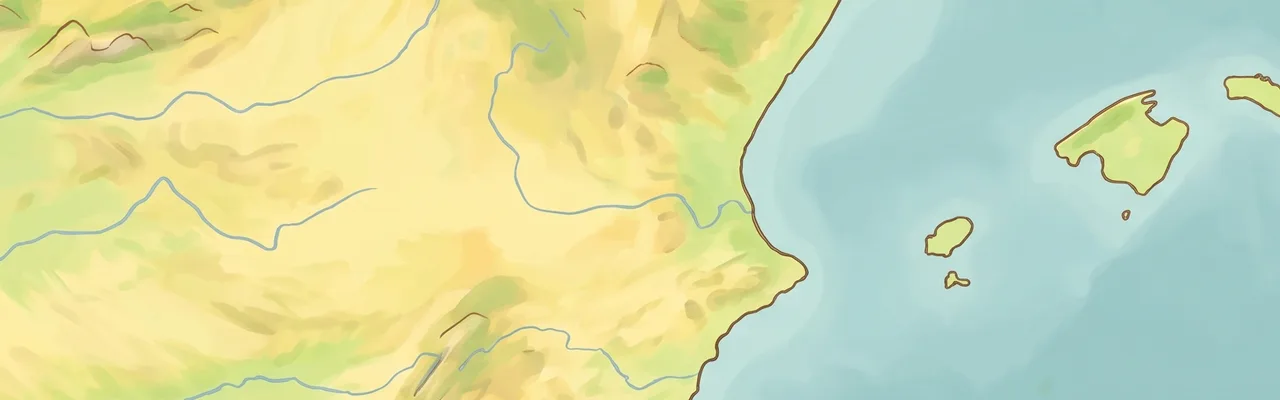
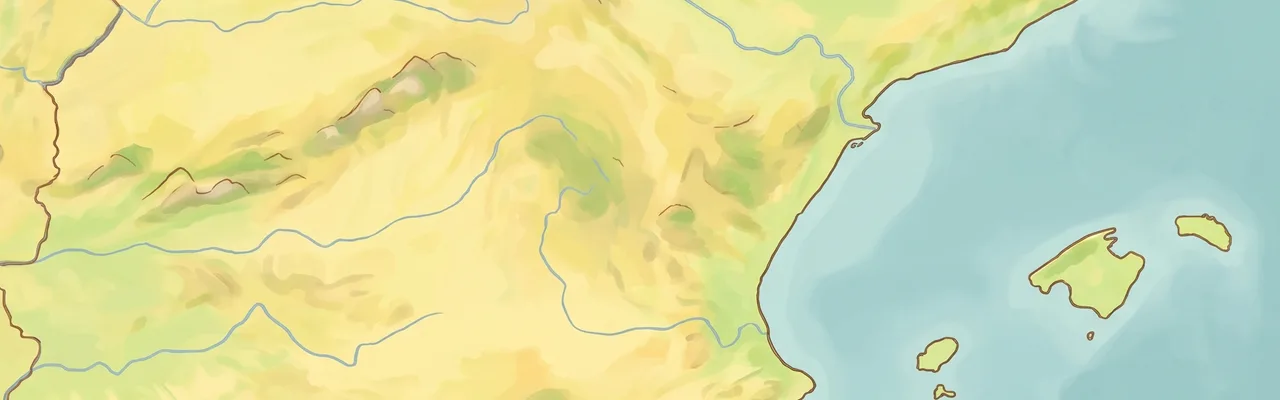
fix(landing): пины на Барселоне/Валенсии/Мадриде по размеченным точкам + подписи (TRIP-445)
Все три карты кропнуты так, что показывают одни и те же города (Барселона,
Валенсия, Мадрид) под своё соотношение слота. Координаты пинов взяты из точек,
размеченных Павлом прямо на картине (детект красных маркеров) — не георефренс,
не «на глаз»: Барселона на побережье, Валенсия на побережье, Мадрид в центре,
ни один пин не в воде. Добавлены подписи городов через i18n (landing.map.bcn/
vlc/mad, en/es/ru) с белым гало SVG-атрибутами (без нового CSS-класса).

Claude-Session: https://claude.ai/code/session_01V8X29ZbLBon8jURVNecf4K

diff --git a/src/pages/Landing/LandingPage.jsx b/src/pages/Landing/LandingPage.jsx
@@ -344,13 +344,13 @@ function Pain() {
                     <div data-step="" style={{ '--s': 0 }}>{/* inline-style-exempt: scrub step index */}
                       <div className="aw-row"><span className="aw-label">{t('landing.aw.mapLbl')}</span><span className="aw-more">{t('landing.aw.open')}</span></div>
                       <div className="aw-map" aria-hidden="true">
-                        {/* §5: карта маршрута — иллюстрация (акварельная Иберия, кроп public/site/map-pain.webp); пины на реальных городах (Валенсия→Аликанте→Мурсия), координаты — георефренс картины по опорным точкам берега (аффин lng/lat→px). */}
+                        {/* §5: карта маршрута — иллюстрация (акварельная Иберия, кроп public/site/map-pain.webp); пины на реальных городах Барселона→Валенсия→Мадрид (координаты по точкам, размеченным на картине). */}
                         <svg viewBox="0 0 608 190" preserveAspectRatio="xMidYMid slice">
                           <image href="/site/map-pain.webp" x="0" y="0" width="608" height="190" preserveAspectRatio="xMidYMid slice" />
-                          <path d="M323 40 L346 116 L314 139" fill="none" stroke="#2173C8" strokeWidth="2.4" strokeDasharray="2 7" strokeLinecap="round" className="aw-route" />
-                          <g className="aw-pin" style={{ '--p': 0 }}><circle cx="323" cy="40" r="11" fill="#fff" stroke="#2173C8" strokeWidth="2.2" /><text className="npin-t" x="323" y="44" fontSize="12">1</text></g>{/* inline-style-exempt: --p pin stagger delay (TRIP-460) */}
-                          <g className="aw-pin" style={{ '--p': 1 }}><circle cx="346" cy="116" r="11" fill="#fff" stroke="#2173C8" strokeWidth="2.2" /><text className="npin-t" x="346" y="120" fontSize="12">2</text></g>{/* inline-style-exempt: --p pin stagger delay */}
-                          <g className="aw-pin" style={{ '--p': 2 }}><circle cx="314" cy="139" r="11" fill="#fff" stroke="#2173C8" strokeWidth="2.2" /><text className="npin-t" x="314" y="143" fontSize="12">3</text></g>{/* inline-style-exempt: --p pin stagger delay */}
+                          <path d="M430 33 L360 157 L178 102" fill="none" stroke="#2173C8" strokeWidth="2.4" strokeDasharray="2 7" strokeLinecap="round" className="aw-route" />
+                          <g className="aw-pin" style={{ '--p': 0 }}><circle cx="430" cy="33" r="11" fill="#fff" stroke="#2173C8" strokeWidth="2.2" /><text className="npin-t" x="430" y="37" fontSize="12">1</text><text x="415" y="37" fontSize="11" fontWeight="700" fill="#13324E" stroke="#fff" strokeWidth="3" paintOrder="stroke" textAnchor="end">{t('landing.map.bcn')}</text></g>{/* inline-style-exempt: --p pin stagger delay (TRIP-460) */}
+                          <g className="aw-pin" style={{ '--p': 1 }}><circle cx="360" cy="157" r="11" fill="#fff" stroke="#2173C8" strokeWidth="2.2" /><text className="npin-t" x="360" y="161" fontSize="12">2</text><text x="375" y="161" fontSize="11" fontWeight="700" fill="#13324E" stroke="#fff" strokeWidth="3" paintOrder="stroke" textAnchor="start">{t('landing.map.vlc')}</text></g>{/* inline-style-exempt: --p pin stagger delay */}
+                          <g className="aw-pin" style={{ '--p': 2 }}><circle cx="178" cy="102" r="11" fill="#fff" stroke="#2173C8" strokeWidth="2.2" /><text className="npin-t" x="178" y="106" fontSize="12">3</text><text x="193" y="106" fontSize="11" fontWeight="700" fill="#13324E" stroke="#fff" strokeWidth="3" paintOrder="stroke" textAnchor="start">{t('landing.map.mad')}</text></g>{/* inline-style-exempt: --p pin stagger delay */}
                         </svg>
                       </div>
                     </div>
@@ -417,14 +417,13 @@ function Bento() {
             <h3>{t('landing.bento.mapT')}</h3>
             <p>{t('landing.bento.mapD')}</p>
             <div className="mapviz" aria-hidden="true">
-              {/* §5: карта — иллюстрация (акварельная Иберия, кроп public/site/map-bento.webp); пины на реальных городах (Сарагоса→Льейда→Барселона→Жирона), координаты через георефренс картины. */}
+              {/* §5: карта — иллюстрация (акварельная Иберия, кроп public/site/map-bento.webp); пины на реальных городах Барселона→Валенсия→Мадрид (координаты по точкам, размеченным на картине). */}
               <svg viewBox="0 0 640 230" preserveAspectRatio="xMidYMid slice">
                 <image href="/site/map-bento.webp" x="0" y="0" width="640" height="230" preserveAspectRatio="xMidYMid slice" />
-                <path d="M101 98 L227 103 L363 127 L396 75" fill="none" stroke="#2173C8" strokeWidth="2.4" strokeDasharray="2 7" strokeLinecap="round" />
-                <g><circle cx="101" cy="98" r="12" fill="#fff" stroke="#2173C8" strokeWidth="2.2" /><text className="npin-t" x="101" y="102" fontSize="12">1</text></g>
-                <g><circle cx="227" cy="103" r="12" fill="#fff" stroke="#2173C8" strokeWidth="2.2" /><text className="npin-t" x="227" y="107" fontSize="12">2</text></g>
-                <g><circle cx="363" cy="127" r="12" fill="#fff" stroke="#2173C8" strokeWidth="2.2" /><text className="npin-t" x="363" y="131" fontSize="12">3</text></g>
-                <g><circle cx="396" cy="75" r="12" fill="#fff" stroke="#2173C8" strokeWidth="2.2" /><text className="npin-t" x="396" y="79" fontSize="12">4</text></g>
+                <path d="M473 40 L388 190 L168 123" fill="none" stroke="#2173C8" strokeWidth="2.4" strokeDasharray="2 7" strokeLinecap="round" />
+                <g><circle cx="473" cy="40" r="12" fill="#fff" stroke="#2173C8" strokeWidth="2.2" /><text className="npin-t" x="473" y="44" fontSize="12">1</text><text x="457" y="44" fontSize="12" fontWeight="700" fill="#13324E" stroke="#fff" strokeWidth="3" paintOrder="stroke" textAnchor="end">{t('landing.map.bcn')}</text></g>
+                <g><circle cx="388" cy="190" r="12" fill="#fff" stroke="#2173C8" strokeWidth="2.2" /><text className="npin-t" x="388" y="194" fontSize="12">2</text><text x="404" y="194" fontSize="12" fontWeight="700" fill="#13324E" stroke="#fff" strokeWidth="3" paintOrder="stroke" textAnchor="start">{t('landing.map.vlc')}</text></g>
+                <g><circle cx="168" cy="123" r="12" fill="#fff" stroke="#2173C8" strokeWidth="2.2" /><text className="npin-t" x="168" y="127" fontSize="12">3</text><text x="184" y="127" fontSize="12" fontWeight="700" fill="#13324E" stroke="#fff" strokeWidth="3" paintOrder="stroke" textAnchor="start">{t('landing.map.mad')}</text></g>
               </svg>
             </div>
           </article>
@@ -671,13 +670,13 @@ function Share() {
                 <span className="viewer">{t('landing.sh.viewer')}</span>
               </div>
               <div className="bb-map" aria-hidden="true">
-                {/* §5: карта — иллюстрация (акварельная Иберия, кроп public/site/map-share.webp); пины на реальных городах (Кастельон→Валенсия→Пальма), координаты через георефренс картины. */}
+                {/* §5: карта — иллюстрация (акварельная Иберия, кроп public/site/map-share.webp); пины на реальных городах Барселона→Валенсия→Мадрид (координаты по точкам, размеченным на картине). */}
                 <svg viewBox="0 0 598 130" preserveAspectRatio="xMidYMid slice">
                   <image href="/site/map-share.webp" x="0" y="0" width="598" height="130" preserveAspectRatio="xMidYMid slice" />
-                  <path d="M232 48 L224 86 L429 83" fill="none" stroke="#2173C8" strokeWidth="2" strokeDasharray="2 6" strokeLinecap="round" />
-                  <g><circle cx="232" cy="48" r="9" fill="#fff" stroke="#2173C8" strokeWidth="2" /><text className="npin-t" x="232" y="52" fontSize="10">1</text></g>
-                  <g><circle cx="224" cy="86" r="9" fill="#fff" stroke="#2173C8" strokeWidth="2" /><text className="npin-t" x="224" y="90" fontSize="10">2</text></g>
-                  <g><circle cx="429" cy="83" r="9" fill="#fff" stroke="#2173C8" strokeWidth="2" /><text className="npin-t" x="429" y="87" fontSize="10">3</text></g>
+                  <path d="M404 14 L346 117 L194 71" fill="none" stroke="#2173C8" strokeWidth="2" strokeDasharray="2 6" strokeLinecap="round" />
+                  <g><circle cx="404" cy="14" r="9" fill="#fff" stroke="#2173C8" strokeWidth="2" /><text className="npin-t" x="404" y="18" fontSize="10">1</text><text x="391" y="18" fontSize="9" fontWeight="700" fill="#13324E" stroke="#fff" strokeWidth="2.6" paintOrder="stroke" textAnchor="end">{t('landing.map.bcn')}</text></g>
+                  <g><circle cx="346" cy="117" r="9" fill="#fff" stroke="#2173C8" strokeWidth="2" /><text className="npin-t" x="346" y="121" fontSize="10">2</text><text x="359" y="120" fontSize="9" fontWeight="700" fill="#13324E" stroke="#fff" strokeWidth="2.6" paintOrder="stroke" textAnchor="start">{t('landing.map.vlc')}</text></g>
+                  <g><circle cx="194" cy="71" r="9" fill="#fff" stroke="#2173C8" strokeWidth="2" /><text className="npin-t" x="194" y="75" fontSize="10">3</text><text x="207" y="74" fontSize="9" fontWeight="700" fill="#13324E" stroke="#fff" strokeWidth="2.6" paintOrder="stroke" textAnchor="start">{t('landing.map.mad')}</text></g>
                 </svg>
               </div>
               <div className="bb-strip">
